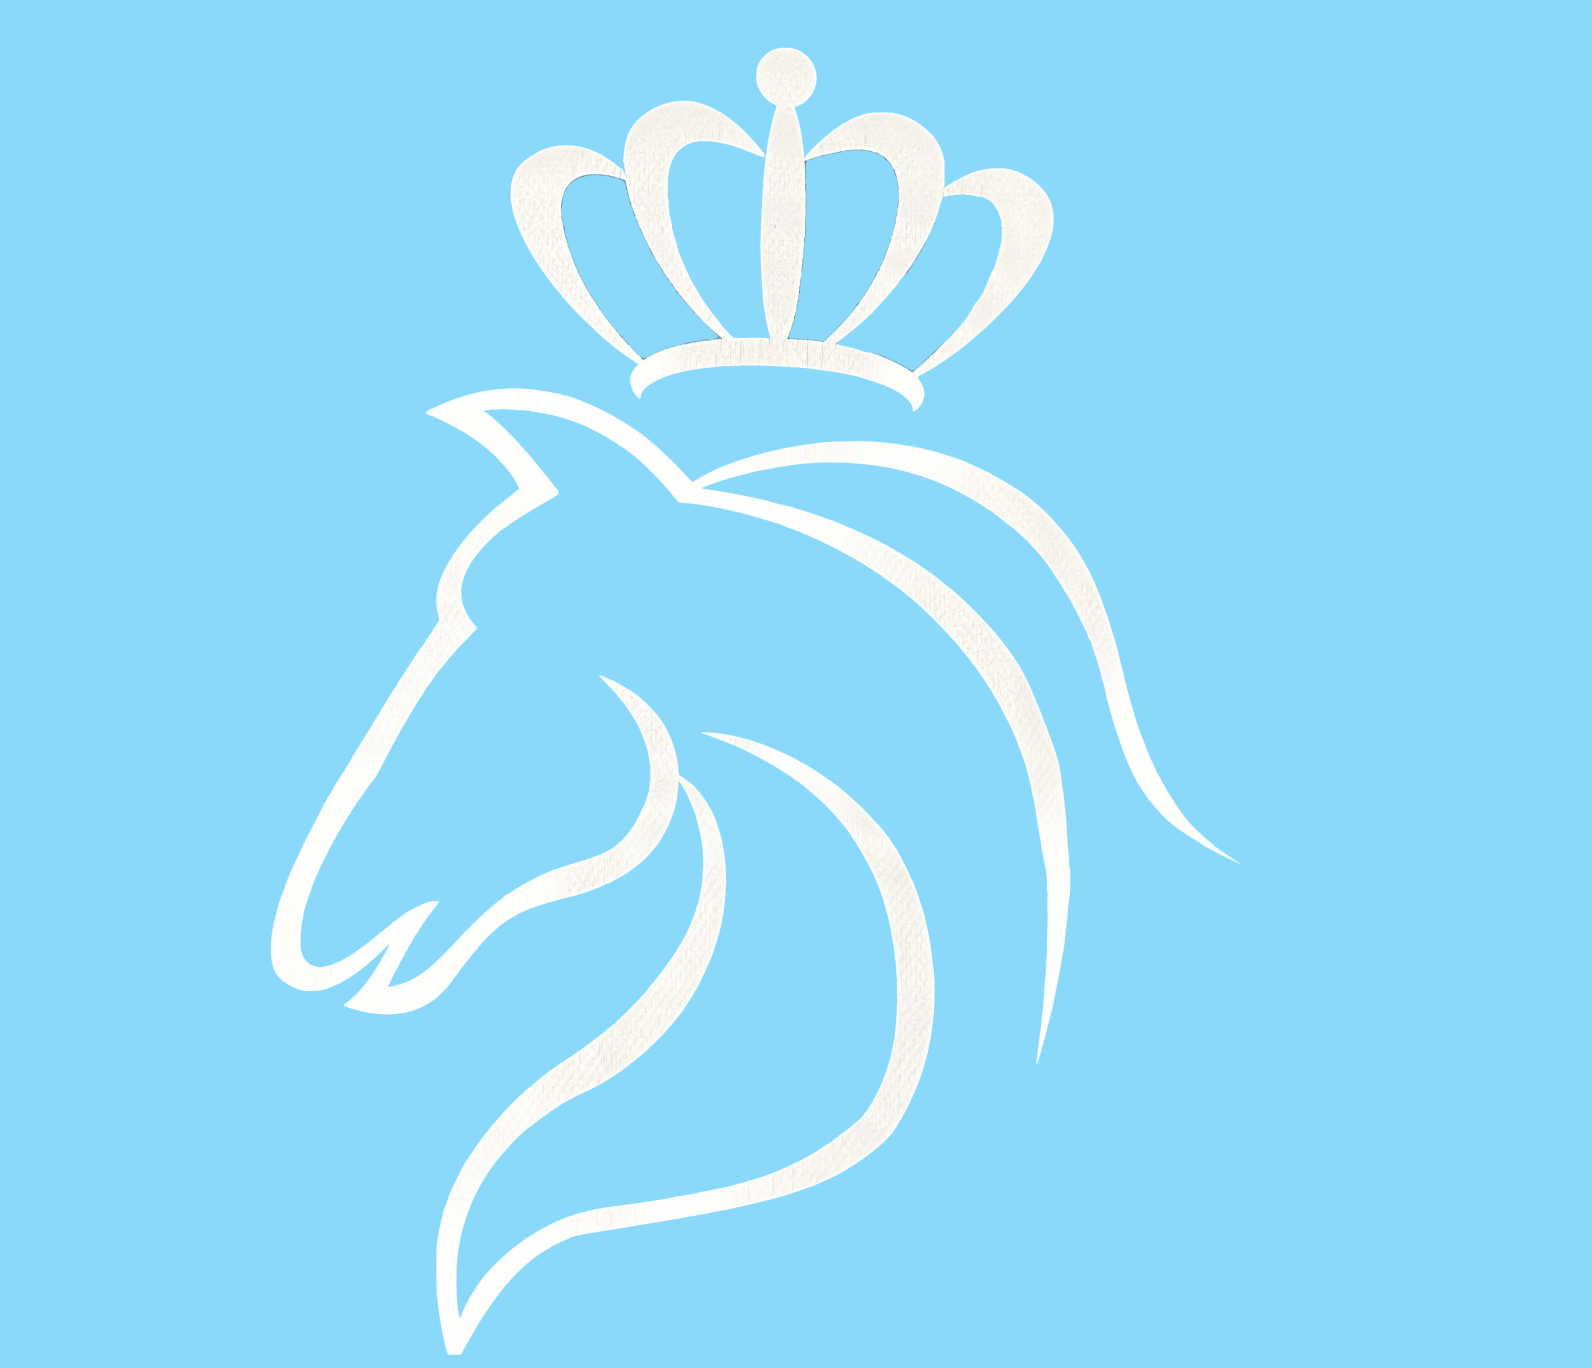
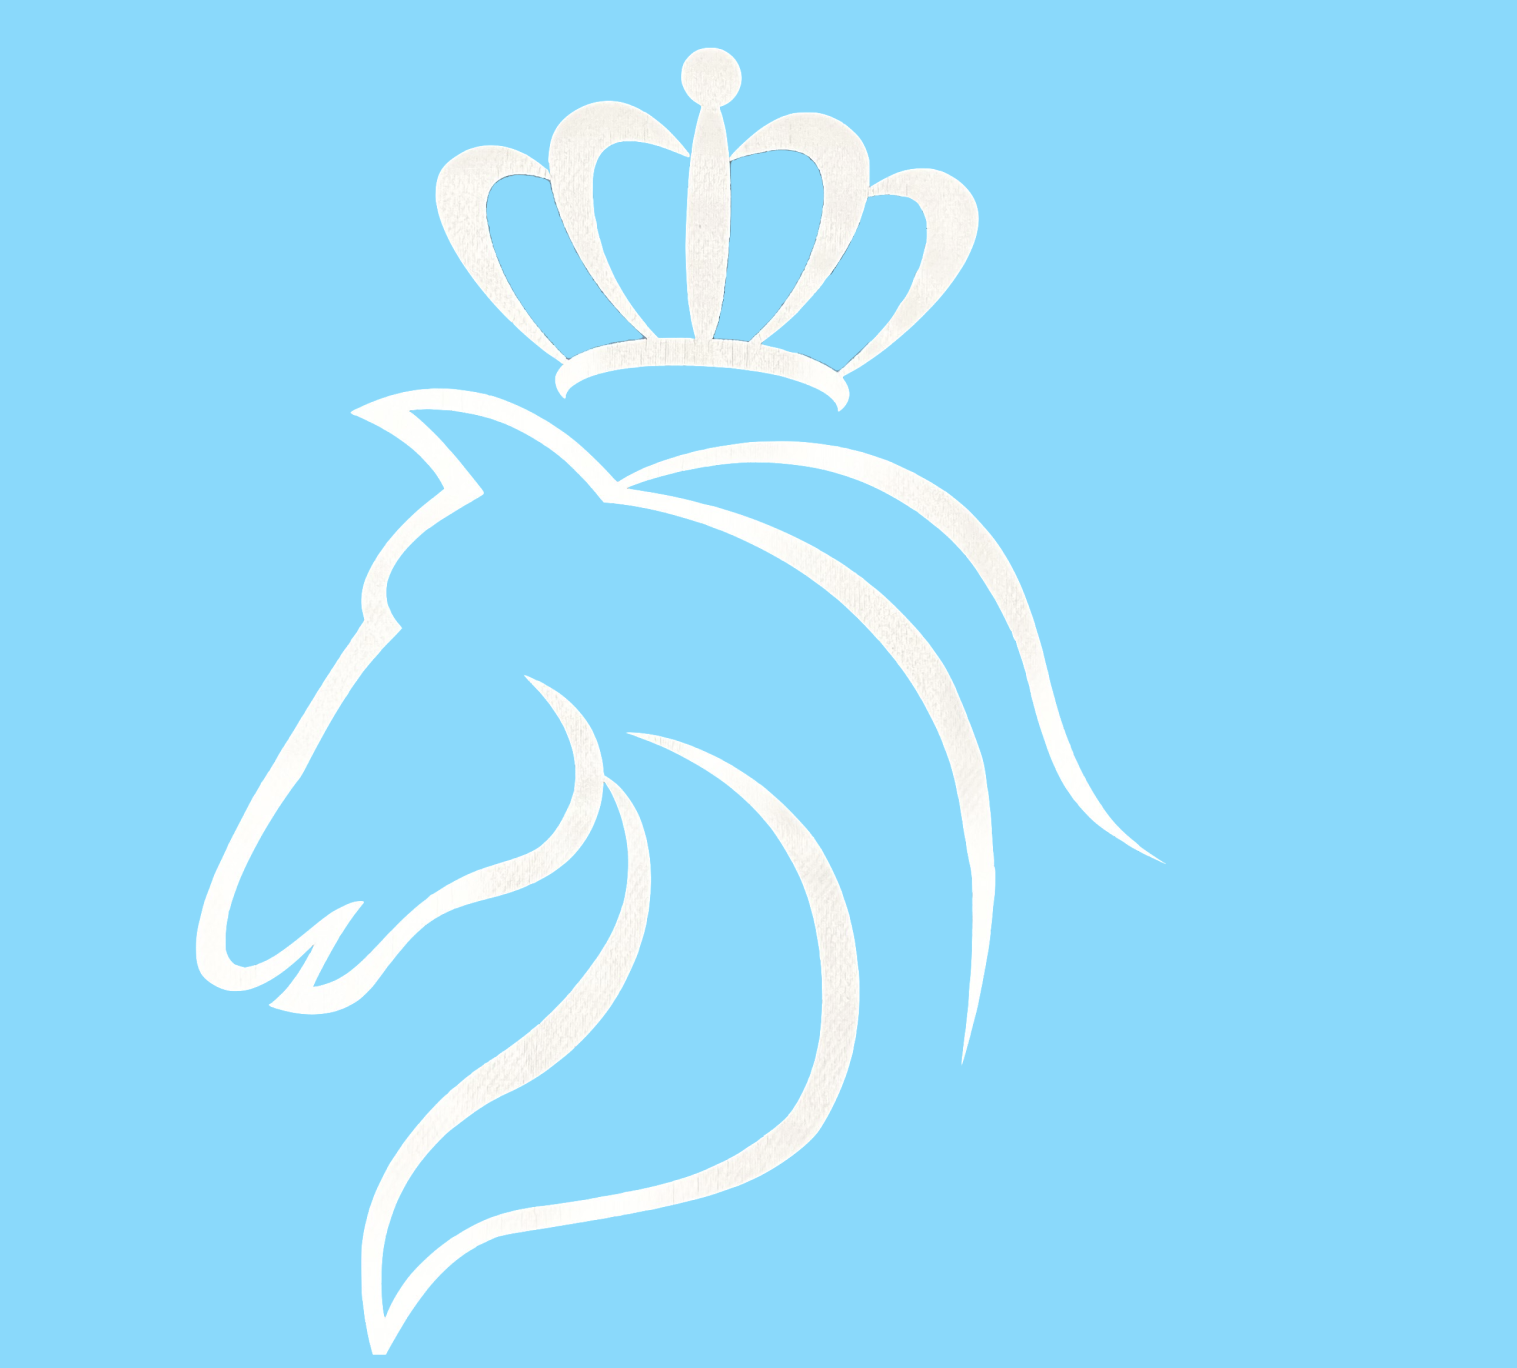
add:background-image

Changed region(s): [[0.1239, 0.0307, 0.7746, 1.0]]

diff --git a/index.html b/index.html
@@ -76,51 +76,56 @@
           </div>
         </section>
 
-        <section id="news">
-          <h2 class="section-title">NEWS</h2>
-          <div class="grid">
-            <div class="item">
-              <img src="img/news_image1.jpg" alt="写真" />
-            </div>
-            <div class="item">
-              <img src="img/news_image2.jpg" alt="写真" />
-            </div>
-            <div class="item">
-              <img src="img/news_image3.jpg" alt="写真" />
-            </div>
-            <div class="item">
-              <img src="img/news_image4.jpg" alt="写真" />
-            </div>
-          </div>
-        </section>
+        <div class="bg-img">
+          <!-- <img src="img/bg-img.png" alt="マーク" />
+        </div> -->
 
-        <section id="schedule">
-          <h2 class="section-title">SCHEDULE</h2>
-          <div class="calender">
-            <iframe
-              src="https://calendar.google.com/calendar/embed?height=300&wkst=1&ctz=Asia%2FTokyo&bgcolor=%23ffffff&showTitle=0&showTz=0&showTabs=0&showCalendars=0&src=NWZmOTVjZTJjMzU5YTU1OWVmMWYyOGY3NGIwYmI0ZGI4ZWMwMzYxZjQzZGVjMmRmMTNiMjAwMjUzZDM1Y2Q5N0Bncm91cC5jYWxlbmRhci5nb29nbGUuY29t&src=amEuamFwYW5lc2UjaG9saWRheUBncm91cC52LmNhbGVuZGFyLmdvb2dsZS5jb20&color=%23039BE5&color=%230B8043"
-              style="border: solid 1px #777"
-              width="350"
-              height="300"
-              frameborder="0"
-              scrolling="no"
-            ></iframe>
-          </div>
-        </section>
+          <section id="news">
+            <h2 class="section-title">NEWS</h2>
+            <div class="grid">
+              <div class="item">
+                <img src="img/news_image1.jpg" alt="写真" />
+              </div>
+              <div class="item">
+                <img src="img/news_image2.jpg" alt="写真" />
+              </div>
+              <div class="item">
+                <img src="img/news_image3.jpg" alt="写真" />
+              </div>
+              <div class="item">
+                <img src="img/news_image4.jpg" alt="写真" />
+              </div>
+            </div>
+          </section>
 
-        <section id="sponsor">
-          <h2 class="section-title">SPONSOR</h2>
-          <div class="sponsor-item">
-            <a href="http://hashizumeclinic2015.g2.xrea.com/"
-              ><img src="img/sponsor/はしづめ診療所.png" alt="橋爪診療所"
-            /></a>
-          </div>
-          <div class="sponsor-item">
-            <a href="https://iidamaya.com/"
-              ><img src="img/sponsor/飯玉屋.png" alt="飯玉屋"
-            /></a>
-          </div>
-        </section>
+          <section id="schedule">
+            <h2 class="section-title">SCHEDULE</h2>
+            <div class="calender">
+              <iframe
+                src="https://calendar.google.com/calendar/embed?height=300&wkst=1&ctz=Asia%2FTokyo&bgcolor=%23ffffff&showTitle=0&showTz=0&showTabs=0&showCalendars=0&src=NWZmOTVjZTJjMzU5YTU1OWVmMWYyOGY3NGIwYmI0ZGI4ZWMwMzYxZjQzZGVjMmRmMTNiMjAwMjUzZDM1Y2Q5N0Bncm91cC5jYWxlbmRhci5nb29nbGUuY29t&src=amEuamFwYW5lc2UjaG9saWRheUBncm91cC52LmNhbGVuZGFyLmdvb2dsZS5jb20&color=%23039BE5&color=%230B8043"
+                style="border: solid 1px #777"
+                width="350"
+                height="300"
+                frameborder="0"
+                scrolling="no"
+              ></iframe>
+            </div>
+          </section>
+
+          <section id="sponsor">
+            <h2 class="section-title">SPONSOR</h2>
+            <div class="sponsor-item">
+              <a href="http://hashizumeclinic2015.g2.xrea.com/"
+                ><img src="img/sponsor/はしづめ診療所.png" alt="橋爪診療所"
+              /></a>
+            </div>
+            <div class="sponsor-item">
+              <a href="https://iidamaya.com/"
+                ><img src="img/sponsor/飯玉屋.png" alt="飯玉屋"
+              /></a>
+            </div>
+          </section>
+        </div>
 
         <section id="contact">
           <h2 class="section-title">CONTACT</h2>

diff --git a/style.scss b/style.scss
@@ -164,6 +164,21 @@ main {
     }
   }
 
+  .bg-img {
+    width: 100%;
+    background-image: url(img/bg-img.png);
+    background-size: 600px 900px;
+    background-position: 10% 90%;
+    // height: 980px;
+    // position: absolute;
+    // margin-top: 200px;
+    // overflow: hidden;
+    // z-index: -5;
+    // img {
+    //   overflow: hidden;
+    // }
+  }
+
   #news {
     width: 95%;
     margin: 0 auto 70px;

diff --git a/style.css b/style.css
@@ -151,6 +151,12 @@ main #concept .concept-wrapper {
 main #concept .concept-wrapper .text p {
   text-align: center;
 }
+main .bg-img {
+  width: 100%;
+  background-image: url(img/bg-img.png);
+  background-size: 600px 900px;
+  background-position: 10% 90%;
+}
 main #news {
   width: 95%;
   margin: 0 auto 70px;
